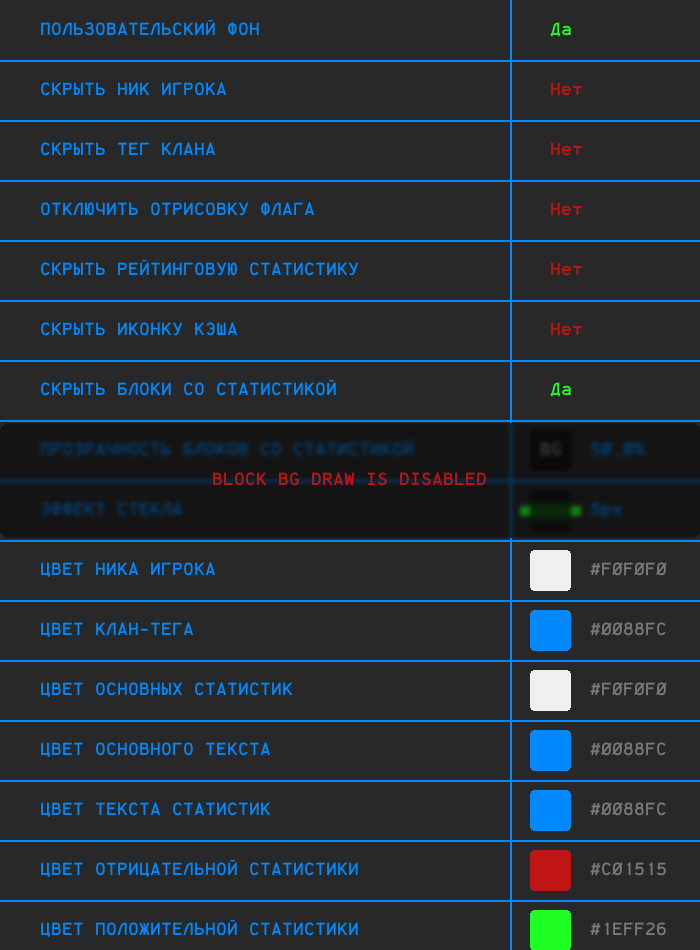
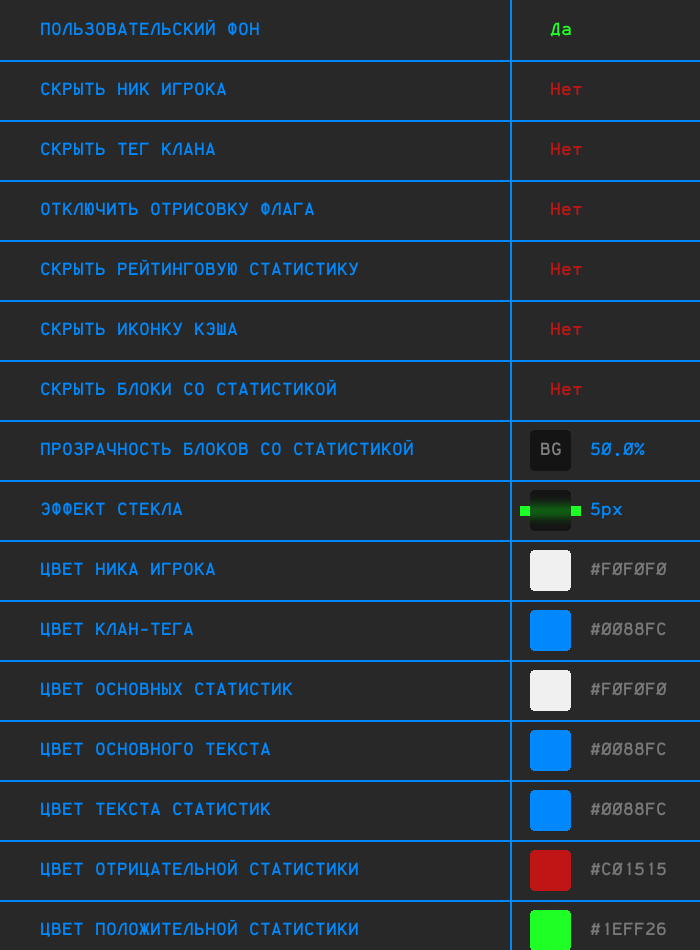
~~~

Changed region(s): [[0.0, 0.4579, 1.0, 0.58], [0.78, 0.3968, 0.84, 0.4274]]

diff --git a/lib/image/settings_represent.py b/lib/image/settings_represent.py
@@ -41,8 +41,7 @@ class SettingsRepresent:
         if image_settings.disable_stats_blocks:
             self.inactive_block_bg_settings(image_settings)
         
-        self.image.show()
-        self.image.save('test.png')
+        # self.image.save('test.png')
 
     def draw_v_line(self, img_draw: ImageDraw.ImageDraw):
         img_draw.line(
@@ -85,7 +84,7 @@ class SettingsRepresent:
                         self.image.size[0] // 2,
                         self.offsets.line_offset_y * (index + 2),
                     ), 
-                    text='BLOCK BG DRAW IS DISABLED',
+                    text=Text().get('').cmds.image_settings_get.items.stats_blocks_disabled.upper(),
                     anchor='mm',
                     fill=Colors.red,
                     font=self.font
@@ -155,13 +154,13 @@ class SettingsRepresent:
         lines = 0
     
         for i in image_settings_dict.keys():
-            print(getattr(Text().get('ru').cmds.image_settings_get.items, i))
+            print(getattr(Text().get('').cmds.image_settings_get.items, i))
             img_draw.text(
                 (
                     self.offsets.base_offset, 
                     self.offsets.base_offset_y + lines * self.offsets.line_offset_y
                     ),
-                text=getattr(Text().get('ru').cmds.image_settings_get.items, i).upper(),
+                text=getattr(Text().get('').cmds.image_settings_get.items, i).upper(),
                 font=self.font,
                 anchor='lm',
                 align='center',

diff --git a/lib/database/players.py b/lib/database/players.py
@@ -458,3 +458,14 @@ class PlayersDB:
         except Exception:
             _log.error(f'Database error: {traceback.format_exc()}')
             return False
+        
+    # Run 1 time for update database structure... TODO: For use uncomment this code.
+    # def database_update(self):
+    #     self.collection.update_many({}, { '$rename' :{ "image_settings.blocks_bg_brightness" : "image_settings.blocks_bg_opacity"}})
+    #     self.collection.update_many(
+    #         {}, { '$set' :{
+    #                 "image_settings.negative_stats_color" : '#c01515',
+    #                 "image_settings.positive_stats_color" : '#1eff26',
+    #             }
+    #             }
+    #         )

diff --git a/lib/data_classes/db_player.py b/lib/data_classes/db_player.py
@@ -17,7 +17,7 @@ class ImageSettings(BaseModel):
     disable_flag: bool = False
     disable_rating_stats: bool = False
     disable_cache_label: bool = False
-    disable_stats_blocks: bool = True
+    disable_stats_blocks: bool = False
     blocks_bg_opacity: float = 0.5
     glass_effect: int = 5
     nickname_color: str = '#f0f0f0' # Hex RGB Format #RRGGBB or #RGB

diff --git a/settings_represent.py b/settings_represent.py
@@ -1,4 +1,9 @@
 from lib.image.settings_represent import SettingsRepresent
+from time import time
 
+start_time = time()
 c = SettingsRepresent()
 c.draw()
+end_time = time()
+
+print(f'Time elapsed: {round(end_time - start_time, 4)}ms')
